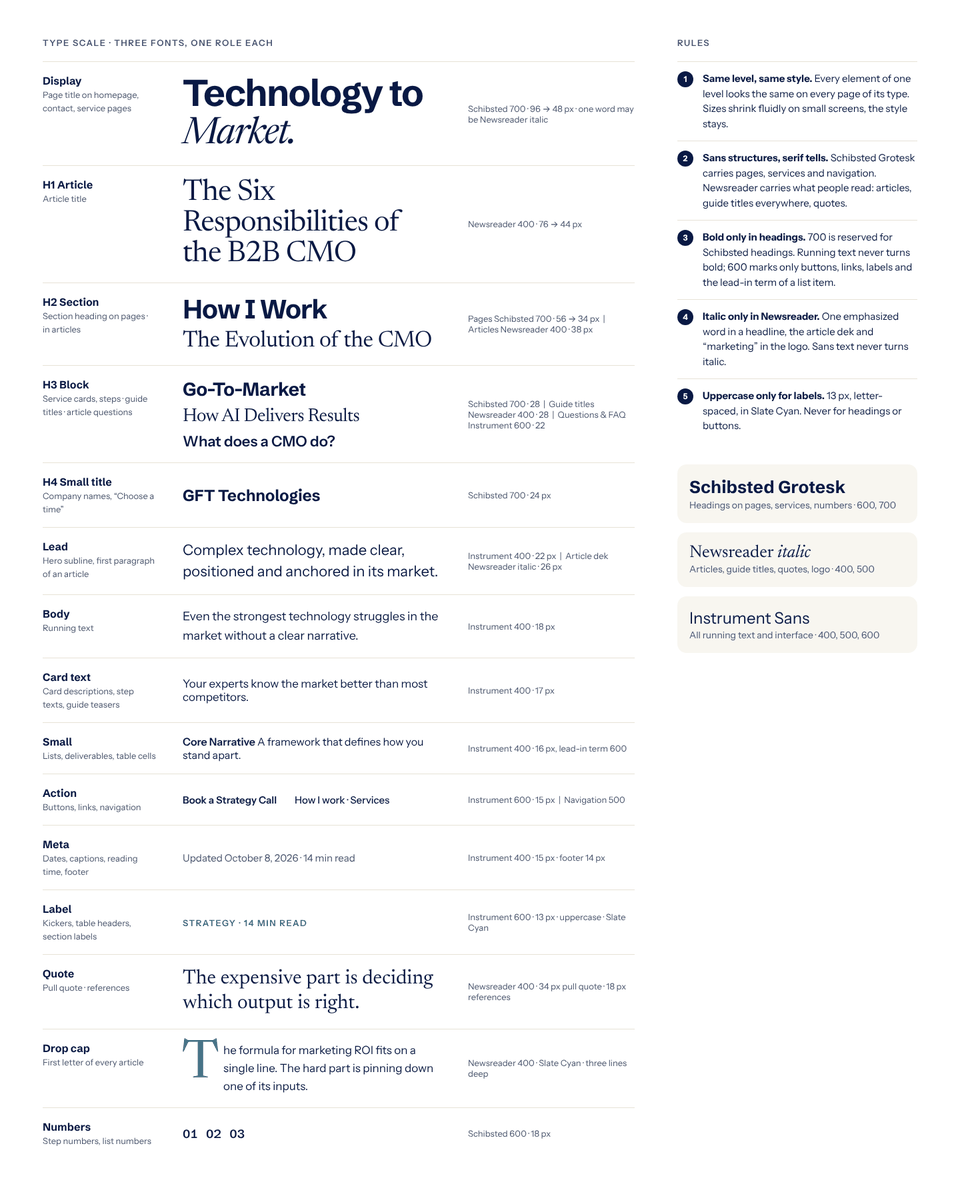
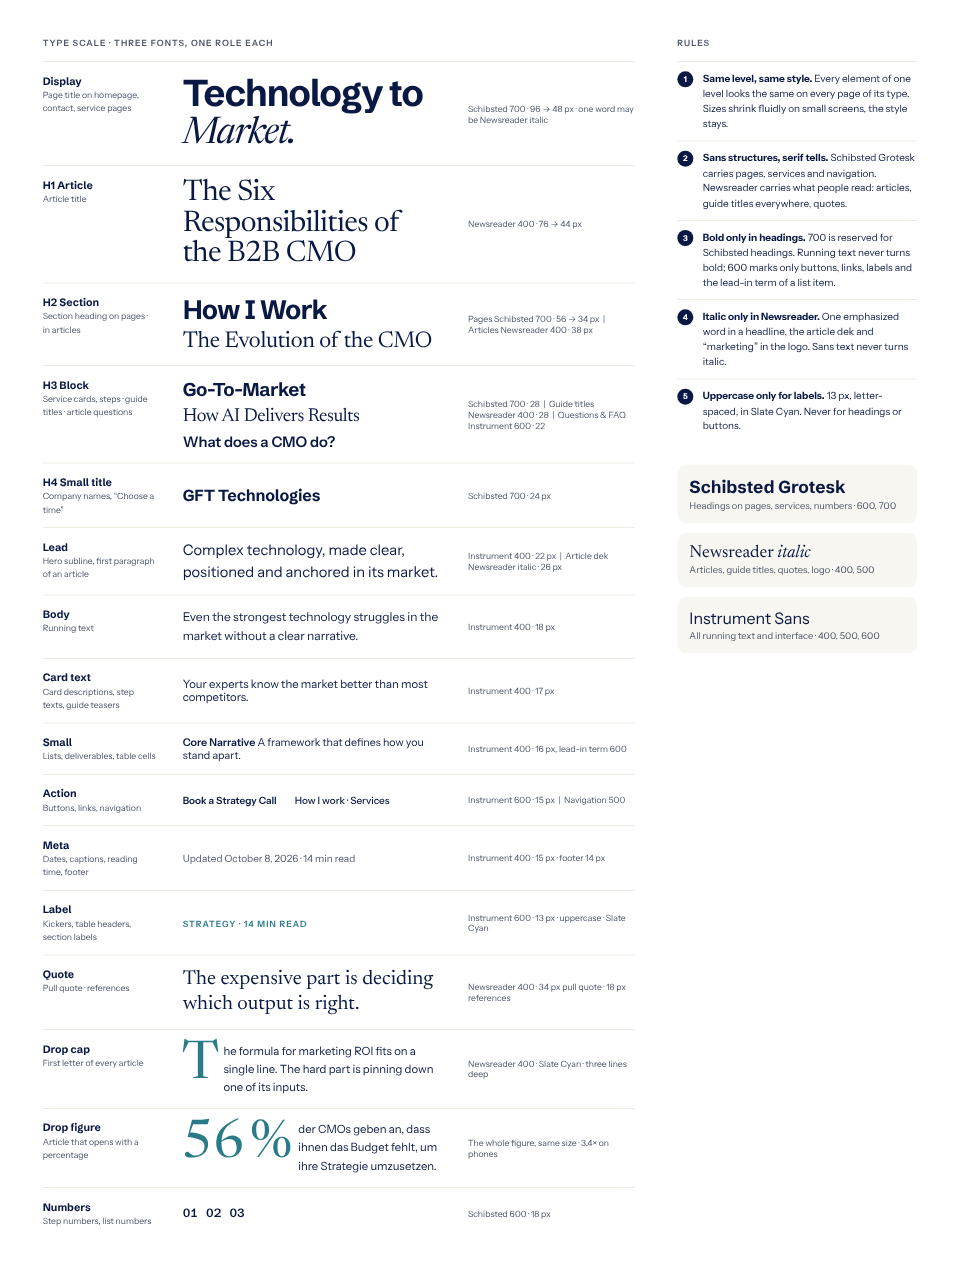
Drop cap: an article that opens with a percentage gets the whole figure as drop cap (CMO hub DE), board updated
Claude-Session: https://claude.ai/code/session_01EoT7BpRMXSboJ4awkNYbjF

diff --git a/design/style-guide/typography.html b/design/style-guide/typography.html
@@ -42,7 +42,7 @@
 <td style="padding:18px 20px;vertical-align:middle"><span style="font-family:'Instrument Sans',system-ui,sans-serif;font-weight:600;font-size:13px;letter-spacing:.12em;text-transform:uppercase;color:#2A7B88;color:#2A7B88">Strategy · 14 min read</span></td>
 <td style="padding:18px 0 18px 20px;vertical-align:middle;width:250px;font-size:13px;color:#4A5568">Instrument 600 · 13 px · uppercase · Slate Cyan</td></tr><tr><td style="padding:18px 20px 18px 0;vertical-align:top;width:170px"><strong style="display:block;font-family:'Schibsted Grotesk',system-ui,sans-serif;font-size:16px">Quote</strong><span style="font-size:13px;color:#4A5568">Pull quote · references</span></td>
 <td style="padding:18px 20px;vertical-align:middle"><span style="font-family:'Newsreader',Georgia,serif;font-weight:400;font-size:30px;line-height:1.25;color:#091944">The expensive part is deciding which output is right.</span></td>
-<td style="padding:18px 0 18px 20px;vertical-align:middle;width:250px;font-size:13px;color:#4A5568">Newsreader 400 · 34 px pull quote · 18 px references</td></tr><tr><td style="padding:18px 20px 18px 0;vertical-align:top;width:170px"><strong style="display:block;font-family:'Schibsted Grotesk',system-ui,sans-serif;font-size:16px">Drop cap</strong><span style="font-size:13px;color:#4A5568">First letter of every article</span></td><td style="padding:18px 20px;vertical-align:middle"><p style="margin:0;font-family:'Instrument Sans',system-ui,sans-serif;font-size:17px;line-height:1.6;color:#091944;max-width:30em"><span style="float:left;font-family:'Newsreader',Georgia,serif;font-size:4.6em;line-height:.78;margin:.085em .08em 0 -.02em;color:#2A7B88">T</span>he formula for marketing ROI fits on a single line. The hard part is pinning down one of its inputs.</p></td><td style="padding:18px 0 18px 20px;vertical-align:middle;width:250px;font-size:13px;color:#4A5568">Newsreader 400 · Slate Cyan · three lines deep</td></tr><tr><td style="padding:18px 20px 18px 0;vertical-align:top;width:170px"><strong style="display:block;font-family:'Schibsted Grotesk',system-ui,sans-serif;font-size:16px">Numbers</strong><span style="font-size:13px;color:#4A5568">Step numbers, list numbers</span></td>
+<td style="padding:18px 0 18px 20px;vertical-align:middle;width:250px;font-size:13px;color:#4A5568">Newsreader 400 · 34 px pull quote · 18 px references</td></tr><tr><td style="padding:18px 20px 18px 0;vertical-align:top;width:170px"><strong style="display:block;font-family:'Schibsted Grotesk',system-ui,sans-serif;font-size:16px">Drop cap</strong><span style="font-size:13px;color:#4A5568">First letter of every article</span></td><td style="padding:18px 20px;vertical-align:middle"><p style="margin:0;font-family:'Instrument Sans',system-ui,sans-serif;font-size:17px;line-height:1.6;color:#091944;max-width:30em"><span style="float:left;font-family:'Newsreader',Georgia,serif;font-size:4.6em;line-height:.78;margin:.085em .08em 0 -.02em;color:#2A7B88">T</span>he formula for marketing ROI fits on a single line. The hard part is pinning down one of its inputs.</p></td><td style="padding:18px 0 18px 20px;vertical-align:middle;width:250px;font-size:13px;color:#4A5568">Newsreader 400 · Slate Cyan · three lines deep</td></tr><tr><td style="padding:18px 20px 18px 0;vertical-align:top;width:170px"><strong style="display:block;font-family:'Schibsted Grotesk',system-ui,sans-serif;font-size:16px">Drop figure</strong><span style="font-size:13px;color:#4A5568">Article that opens with a percentage</span></td><td style="padding:18px 20px;vertical-align:middle"><p style="margin:0;font-family:'Instrument Sans',system-ui,sans-serif;font-size:17px;line-height:1.6;color:#091944;max-width:30em"><span style="float:left;font-family:'Newsreader',Georgia,serif;font-size:4.6em;line-height:.78;margin:.085em .12em 0 -.02em;color:#2A7B88;white-space:nowrap">56&#8239;%</span>der CMOs geben an, dass ihnen das Budget fehlt, um ihre Strategie umzusetzen.</p></td><td style="padding:18px 0 18px 20px;vertical-align:middle;width:250px;font-size:13px;color:#4A5568">The whole figure, same size · 3.4× on phones</td></tr><tr><td style="padding:18px 20px 18px 0;vertical-align:top;width:170px"><strong style="display:block;font-family:'Schibsted Grotesk',system-ui,sans-serif;font-size:16px">Numbers</strong><span style="font-size:13px;color:#4A5568">Step numbers, list numbers</span></td>
 <td style="padding:18px 20px;vertical-align:middle"><span style="font-family:'Schibsted Grotesk',system-ui,sans-serif;font-weight:600;font-size:18px;font-variant-numeric:tabular-nums;color:#091944">01 &nbsp; 02 &nbsp; 03</span></td>
 <td style="padding:18px 0 18px 20px;vertical-align:middle;width:250px;font-size:13px;color:#4A5568">Schibsted 600 · 18 px</td></tr></table>
     </div>

diff --git a/src/styles/global.css b/src/styles/global.css
@@ -274,7 +274,10 @@ h1 .hl > span { display: inline-block; position: relative; padding-right: .12em;
 .article-hero img { display: block; width: 100%; border-radius: 16px; }
 .prose { color: var(--navy); }
 .prose:not(.page-prose) > p:first-child { font-size: 22px; line-height: 1.6; }
-.prose:not(.page-prose) > p:first-child::first-letter { float: left; margin: .085em .08em 0 -.02em; font-family: var(--font-serif); font-weight: 400; font-size: 4.6em; line-height: .78; color: var(--cyan); }
+.prose:not(.page-prose) > p:first-child:not(:has(> .lead-figure:first-child))::first-letter { float: left; margin: .085em .08em 0 -.02em; font-family: var(--font-serif); font-weight: 400; font-size: 4.6em; line-height: .78; color: var(--cyan); }
+/* An article that opens with a figure: the whole figure is the drop cap. */
+.prose:not(.page-prose) > p:first-child > .lead-figure:first-child { float: left; margin: .085em .12em 0 -.02em; font-family: var(--font-serif); font-weight: 400; font-size: 4.6em; line-height: .78; color: var(--cyan); white-space: nowrap; }
+@media (max-width: 600px) { .prose:not(.page-prose) > p:first-child > .lead-figure:first-child { font-size: 3.4em; } }
 .prose p, .prose ul, .prose ol { margin: 0 0 24px; }
 .prose li { margin-bottom: 8px; }
 .prose a, .faq a, .sources a { color: var(--navy); text-decoration: underline; text-decoration-color: var(--yellow); text-decoration-thickness: 2px; text-underline-offset: .2em; }
